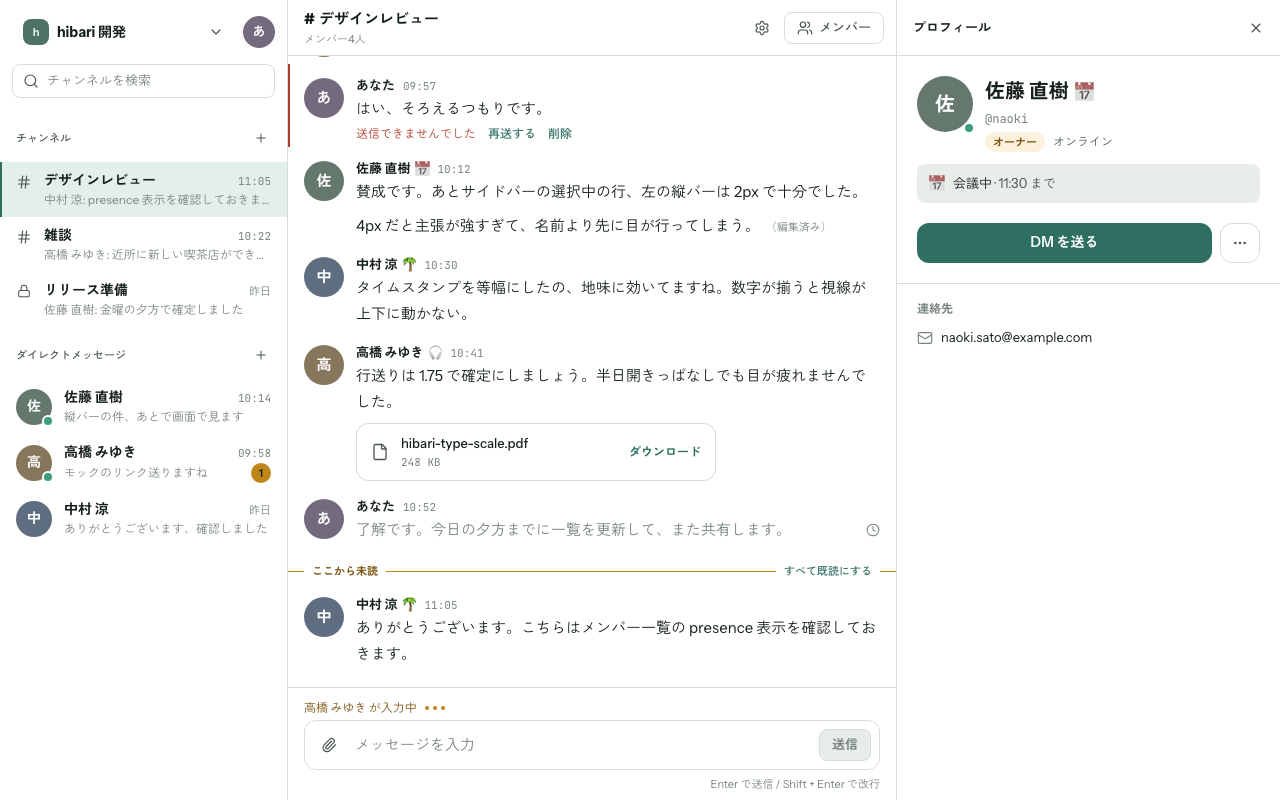
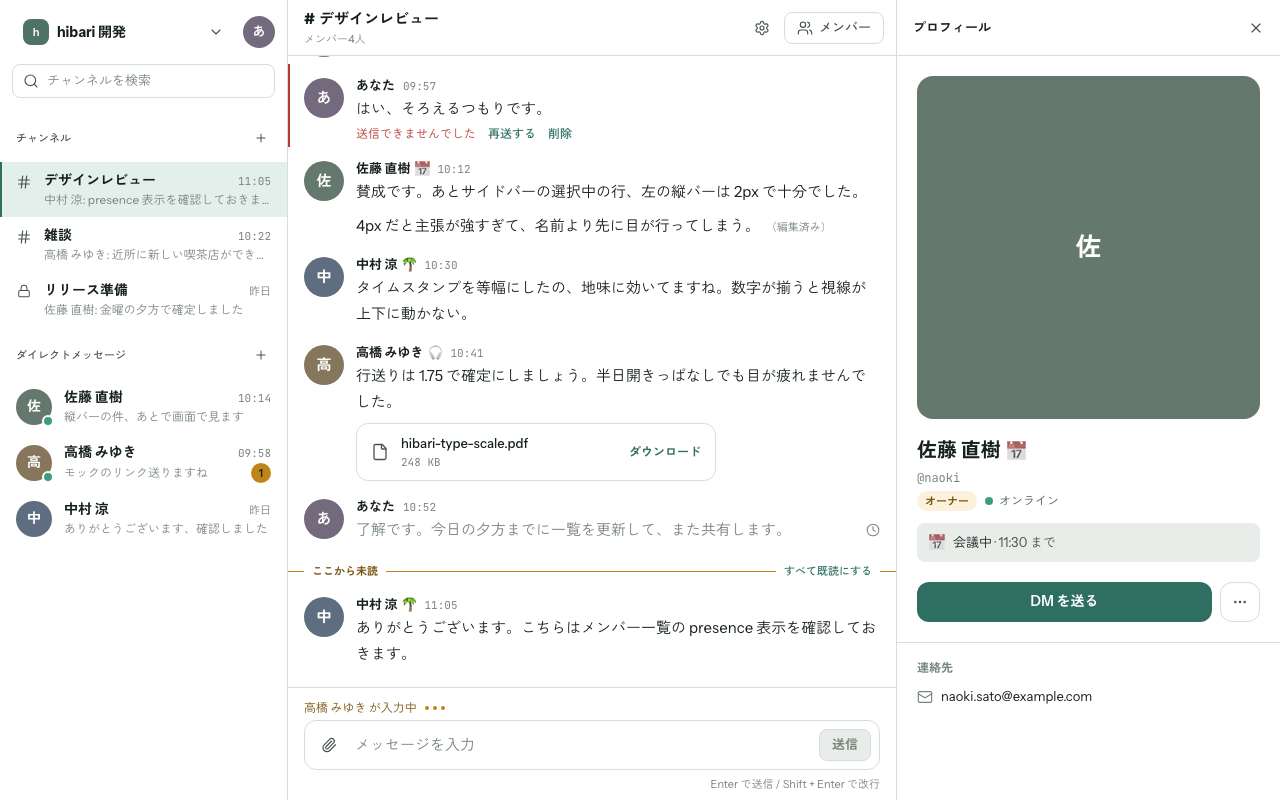
feat(web): プロフィールのパネルの写真を幅いっぱいの角丸の正方形にする
オーナーの指摘で Slack に合わせ、パネルでは写真をパネルの幅いっぱい（上限 352px）の角丸の正方形にして、
名前はその下に置く。presence のドットは写真の隅ではなく、ロールの横の文言の前に置く。
3 点メニューは写真の側（上）に開く。

Changed region(s): [[0.7188, 0.0938, 1.0, 0.6875], [0.7188, 0.7188, 0.9688, 0.7812], [0.7188, 0.8125, 0.8438, 0.875]]

diff --git a/web/components/chat/profile-card.tsx b/web/components/chat/profile-card.tsx
@@ -3,7 +3,7 @@
 import type { ReactNode, RefObject } from "react";
 
 import { AnchoredPanel } from "@/components/ui/anchored-panel";
-import { Avatar, type AvatarSize } from "@/components/ui/avatar";
+import { Avatar, PresenceDot } from "@/components/ui/avatar";
 import { Badge, type BadgeTone } from "@/components/ui/badge";
 import { Button } from "@/components/ui/button";
 import { roleLabel, type WorkspaceRole } from "@/components/workspace/types";
@@ -20,25 +20,34 @@ type KnownProfile = Exclude<ProfileView, { kind: "unknown" }>;
  * カードとパネルに共通する上の段: アバター・表示名とステータスの絵文字・`@handle`・ロールと presence、ステータスの文言。
  * 表示するものはオーナーと確定したものに、Phase 6.8 のカスタムステータスを足したものだけ。
  * 最終オンライン時刻は出さない（ADR 0049）。
+ *
+ * - card: ホバーのカード。丸いアバター（56px）の右に名前を並べる
+ * - panel: 右のパネル。角丸の正方形の写真を幅いっぱいに大きく出し、名前はその下に置く（Slack と同じ。ADR 0050 決定 6 の追記）
  */
-export function ProfileSummary({ profile, avatarSize = "xl" }: { profile: KnownProfile; avatarSize?: AvatarSize }) {
+export function ProfileSummary({ profile, layout = "card" }: { profile: KnownProfile; layout?: "card" | "panel" }) {
   const { user } = profile;
   const member = profile.kind === "member" ? profile : undefined;
   const status = member ? user.status : undefined;
+  const panel = layout === "panel";
 
   return (
     <>
-      <div className="flex gap-3">
+      <div className={panel ? "flex flex-col gap-4" : "flex gap-3"}>
         {/* 外された人の presence は出さない（一覧にいないので分からない。決定 5）。
-            列の高さに引き伸ばされるとドットがアバターの下にずれるので、上に寄せる */}
-        <Avatar
-          id={user.id}
-          name={user.name}
-          imageUrl={user.avatarUrl}
-          size={avatarSize}
-          presence={member?.presence}
-          className="self-start"
-        />
+            パネルの大きな写真の隅にはドットを重ねず、ロールの横の文言の前に置く（写真から離れて見えるため） */}
+        {panel ? (
+          <Avatar id={user.id} name={user.name} imageUrl={user.avatarUrl} size="photo" shape="square" className="w-full max-w-88" />
+        ) : (
+          // 列の高さに引き伸ばされるとドットがアバターの下にずれるので、上に寄せる
+          <Avatar
+            id={user.id}
+            name={user.name}
+            imageUrl={user.avatarUrl}
+            size="xl"
+            presence={member?.presence}
+            className="self-start"
+          />
+        )}
         <div className="flex min-w-0 flex-col gap-1">
           <p className="flex items-center gap-1.5">
             <span className="truncate text-xl font-bold text-text">{user.name}</span>
@@ -53,7 +62,10 @@ export function ProfileSummary({ profile, avatarSize = "xl" }: { profile: KnownP
             <p className="flex items-center gap-2">
               <Badge tone={roleTone[member.role]}>{roleLabel[member.role]}</Badge>
               {member.presence !== "offline" && (
-                <span className="text-xs text-text-secondary">{presenceLabel[member.presence]}</span>
+                <span className="flex items-center gap-1.5 text-xs text-text-secondary">
+                  {panel && <PresenceDot presence={member.presence} />}
+                  {presenceLabel[member.presence]}
+                </span>
               )}
             </p>
           ) : (

diff --git a/web/components/ui/avatar.tsx b/web/components/ui/avatar.tsx
@@ -23,8 +23,10 @@ const colorClass: Record<AvatarColor, string> = {
  * - lg: 40px（メッセージ）
  * - xl: 56px（プロフィール・招待のワークスペース）
  * - message: メッセージ。モバイルでは本文の幅を確保するため 32px、md 以上で 40px
+ * - photo: プロフィールのパネルの写真。置き場所の幅いっぱいの正方形（上限は呼ぶ側が `max-w-*` で決める）。
+ *   Slack と同じく、パネルの高さの 1/3〜1/2 ほどを占める大きさにする（ADR 0050 決定 6 の追記）
  */
-export type AvatarSize = "xs" | "sm" | "md" | "lg" | "xl" | "message";
+export type AvatarSize = "xs" | "sm" | "md" | "lg" | "xl" | "message" | "photo";
 
 const sizeClass: Record<AvatarSize, string> = {
   xs: "size-6.5 text-2xs",
@@ -33,6 +35,7 @@ const sizeClass: Record<AvatarSize, string> = {
   lg: "size-10 text-lg",
   xl: "size-14 text-xl",
   message: "size-8 text-sm md:size-10 md:text-lg",
+  photo: "aspect-square w-full text-2xl",
 };
 
 type AvatarProps = {
@@ -60,7 +63,7 @@ type AvatarProps = {
 export function Avatar({ id, name, imageUrl, size = "lg", shape = "circle", presence = "offline", className }: AvatarProps) {
   // 読み込めなかった URL。取り直して URL が変われば、もう一度画像を試す（ADR 0028）
   const [failedUrl, setFailedUrl] = useState<string>();
-  const radius = shape === "circle" ? "rounded-full" : size === "xl" ? "rounded-lg" : "rounded-sm";
+  const radius = shape === "circle" ? "rounded-full" : size === "xl" || size === "photo" ? "rounded-lg" : "rounded-sm";
   return (
     <span className={cx("relative inline-flex shrink-0", className)}>
       {imageUrl && imageUrl !== failedUrl ? (
@@ -85,17 +88,26 @@ export function Avatar({ id, name, imageUrl, size = "lg", shape = "circle", pres
           {avatarInitial(name)}
         </span>
       )}
-      {presence !== "offline" && (
-        <span
-          role="img"
-          aria-label={presenceLabel[presence]}
-          className={cx(
-            "absolute right-0 bottom-0 size-2 rounded-full ring-2 ring-surface",
-            // 離席は「色を持たない」ことで、いま起きていること（オンライン）と見分ける。中身は地と同じ色で抜く
-            presence === "online" ? "bg-online" : "border-2 border-text-muted bg-surface",
-          )}
-        />
-      )}
+      {presence !== "offline" && <PresenceDot presence={presence} className="absolute right-0 bottom-0" />}
     </span>
+  );
+}
+
+/**
+ * presence のドット（ADR 0049）。アバターの右下に重ねるほか、プロフィールのパネルでは文言の前に置く
+ * （写真が大きいと、隅のドットが写真から離れて見えるため）。オフラインは呼ぶ側で出さない。
+ */
+export function PresenceDot({ presence, className }: { presence: Exclude<PresenceView, "offline">; className?: string }) {
+  return (
+    <span
+      role="img"
+      aria-label={presenceLabel[presence]}
+      className={cx(
+        "inline-block size-2 shrink-0 rounded-full ring-2 ring-surface",
+        // 離席は「色を持たない」ことで、いま起きていること（オンライン）と見分ける。中身は地と同じ色で抜く
+        presence === "online" ? "bg-online" : "border-2 border-text-muted bg-surface",
+        className,
+      )}
+    />
   );
 }

diff --git a/web/components/chat/profile-panel.tsx b/web/components/chat/profile-panel.tsx
@@ -87,7 +87,7 @@ export function ProfilePanel({
         ) : (
           <>
             <div className="p-5">
-              <ProfileSummary profile={profile} />
+              <ProfileSummary profile={profile} layout="panel" />
             </div>
 
             <div className="relative flex gap-2 px-5 pb-5">
@@ -156,7 +156,8 @@ function ProfileMenu({
   onRemove?: () => void;
 }) {
   return (
-    <Popover label="その他の操作" className="top-11 right-5 w-58">
+    // 操作の行は大きな写真の下にあり、下に開くと画面の下で切れる。上（写真の側）に開く
+    <Popover label="その他の操作" className="right-5 bottom-full w-58">
       <MenuItem onClick={onCopyHandle}>ハンドルをコピー</MenuItem>
       {profile.email.state === "ready" && <MenuItem onClick={onCopyEmail}>メールアドレスをコピー</MenuItem>}
       {profile.manage && (

diff --git a/web/components/ui/avatar.test.tsx b/web/components/ui/avatar.test.tsx
@@ -67,4 +67,12 @@ describe("Avatar with an image", () => {
 
     expect(screen.getByRole("img", { name: "オンライン" })).toBeInTheDocument();
   });
+
+  it("draws the profile photo as a rounded square that fills its box (ADR 0050)", () => {
+    render(<Avatar id="u1" name="あなた" imageUrl="https://storage.test/a.png" size="photo" shape="square" />);
+
+    const img = screen.getByRole("presentation", { hidden: true });
+    expect(img).toHaveClass("aspect-square", "w-full", "rounded-lg");
+    expect(img).not.toHaveClass("rounded-full");
+  });
 });
